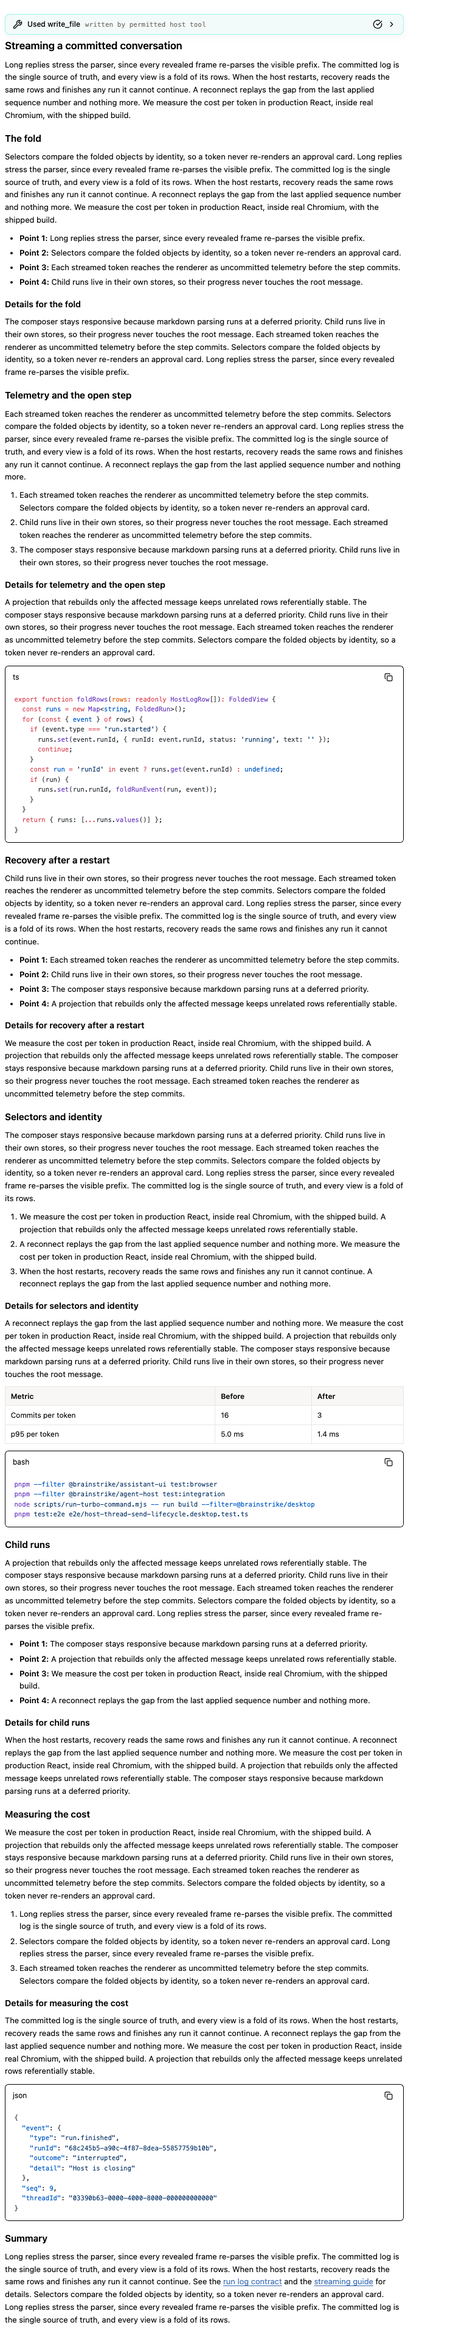
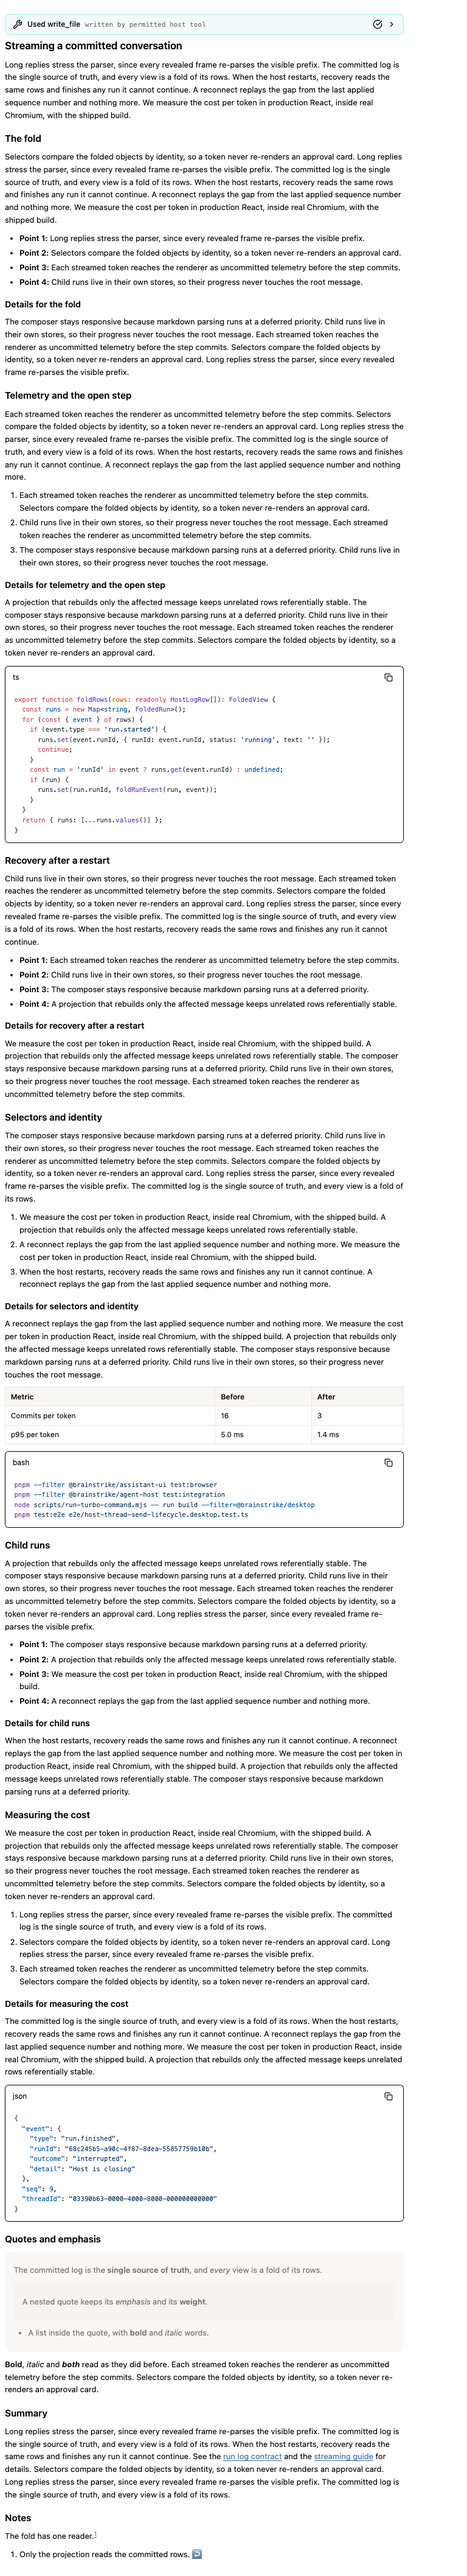
fix: quotes, footnote markers and bold render as on main (BST-1929)
The hands-on smoke found three parity regressions from Streamdown's default
components:
- Blockquotes gained a 4px left bar and turned wholly italic (so emphasis
  inside a quote was lost); our quote rule now also resets the bar and the
  font style.
- Footnote references (`sup`, and `sub`) grew to 14px with a 20px line
  height; they keep the 75% size and zero line height again.
- Bold rendered as `<span class="font-semibold">`; MarkdownText maps `strong`
  back to the `<strong>` element. Italic was already `<em>`.

The long-reply fixture gains a quote with nested emphasis, a bold and italic
paragraph and, last, a footnote. Streamdown parses a reply as one block once it
contains a footnote, so the guard's end window stops before it. Screenshots
11 to 14 show the three cases, byte-identical to main.

Changed region(s): [[0.0, 0.0, 0.8438, 1.0]]

diff --git a/packages/assistant-ui/src/__tests__/long-markdown-reply.ts b/packages/assistant-ui/src/__tests__/long-markdown-reply.ts
@@ -107,8 +107,26 @@ TOPICS.forEach((topic, index) => {
   }
 });
 sections.push(
+  '## Quotes and emphasis',
+  [
+    '> The committed log is the **single source of truth**, and *every* view is a fold of its rows.',
+    '>',
+    '> > A nested quote keeps its *emphasis* and its **weight**.',
+    '>',
+    '> - A list inside the quote, with **bold** and *italic* words.',
+  ].join('\n'),
+  `**Bold**, *italic* and ***both*** read as they did before. ${paragraph(13, 2)}`
+);
+sections.push(
   '## Summary',
   `${paragraph(11, 3)} See the [run log contract](https://example.com/docs/run-log) and the [streaming guide](https://example.com/docs/streaming) for details. ${paragraph(12, 3)}`
+);
+// Last on purpose: once a footnote appears, Streamdown parses the whole reply as
+// one block (its block splitter keeps references and definitions together).
+sections.push(
+  '## Notes',
+  'The fold has one reader.[^fold]',
+  '[^fold]: Only the projection reads the committed rows.'
 );
 
 export const LONG_REPLY = sections.join('\n\n');
@@ -118,5 +136,22 @@ export const LONG_REPLY_LONGEST_BLOCK = Math.max(...sections.map((section) => se
 
 /** Model-like tokens: an optional leading space and up to five characters. */
 export const LONG_REPLY_TOKENS: readonly string[] = LONG_REPLY.match(/\s*\S{1,5}|\s+/g) ?? [];
+
+/**
+ * The index of the token that carries the start of the reply's footnote. From
+ * there on Streamdown parses the reply as one block, so incremental parsing is
+ * measured before it.
+ */
+export const LONG_REPLY_FOOTNOTE_TOKEN = ((): number => {
+  const footnote = LONG_REPLY.indexOf('[^');
+  let offset = 0;
+  for (const [index, token] of LONG_REPLY_TOKENS.entries()) {
+    if (offset + token.length > footnote) {
+      return index;
+    }
+    offset += token.length;
+  }
+  throw new Error('The long reply has no footnote.');
+})();
 
 export const LONG_REPLY_WORDS = LONG_REPLY.split(/\s+/).filter(Boolean).length;

diff --git a/packages/assistant-ui/src/__tests__/committed-long-reply-parse.browser.test.tsx b/packages/assistant-ui/src/__tests__/committed-long-reply-parse.browser.test.tsx
@@ -18,7 +18,11 @@ import {
   waitForQuiescence,
 } from './committed-assistant-browser-support';
 import { publishLiveText, TEXT_TELEMETRY } from './committed-live-text-support';
-import { LONG_REPLY_LONGEST_BLOCK, LONG_REPLY_TOKENS } from './long-markdown-reply';
+import {
+  LONG_REPLY_FOOTNOTE_TOKEN,
+  LONG_REPLY_LONGEST_BLOCK,
+  LONG_REPLY_TOKENS,
+} from './long-markdown-reply';
 import '@brainstrike/ui/globals.css';
 import '../overrides.css';
 import './assistant-conversation-panel.browser.css';
@@ -97,12 +101,15 @@ test('a streamed token re-parses only the open block, however long the reply gro
   };
 
   const largest: Record<string, number> = {};
-  for (const [label, fraction] of [
-    ['10%', 0.1],
-    ['50%', 0.5],
-    ['end', 1],
+  // The end window stops before the reply's closing footnote: from a footnote on,
+  // Streamdown keeps references and definitions together by parsing the whole
+  // reply as one block (a known vendor behaviour, documented in BST-1929).
+  for (const [label, windowEnd] of [
+    ['10%', Math.floor(LONG_REPLY_TOKENS.length * 0.1)],
+    ['50%', Math.floor(LONG_REPLY_TOKENS.length * 0.5)],
+    ['end', LONG_REPLY_FOOTNOTE_TOKEN],
   ] as const) {
-    await publishThrough(Math.floor(LONG_REPLY_TOKENS.length * fraction) - WINDOW_TOKENS);
+    await publishThrough(windowEnd - WINDOW_TOKENS);
     largest[label] = await largestParseWhileTokensLand();
   }
 

diff --git a/packages/assistant-ui/src/markdown-text.tsx b/packages/assistant-ui/src/markdown-text.tsx
@@ -118,8 +118,11 @@ const defaultComponents = {
   CodeHeader,
   // biome-ignore lint/style/useNamingConvention: assistant-ui expects "SyntaxHighlighter" key
   SyntaxHighlighter: SyntaxHighlighterComponent,
+  // Streamdown renders bold as a styled span; keep the semantic element.
+  strong: 'strong',
 } satisfies {
   readonly a: ComponentType<ComponentPropsWithoutRef<'a'>>;
+  readonly strong: 'strong';
   // biome-ignore lint/style/useNamingConvention: assistant-ui expects "CodeHeader" key
   readonly CodeHeader: ComponentType<CodeHeaderProps>;
   // biome-ignore lint/style/useNamingConvention: assistant-ui expects "SyntaxHighlighter" key

diff --git a/packages/assistant-ui/src/overrides.css b/packages/assistant-ui/src/overrides.css
@@ -1835,9 +1835,19 @@
 .assistant-ui-panel .aui-md blockquote {
   margin-block: 0.8em;
   padding: 0.7rem 0.9rem;
+  /* Streamdown's quote classes add a left bar and italicize the whole quote. */
+  border-left: 0;
   border-radius: 0.5rem;
   background: hsl(var(--muted) / 0.45);
   color: hsl(var(--muted-foreground));
+  font-style: normal;
+}
+
+/* Footnote references and other super/subscripts keep their small size
+   (Streamdown sets them to text-sm). */
+.assistant-ui-panel .aui-md :is(sup, sub) {
+  font-size: 75%;
+  line-height: 0;
 }
 
 .assistant-ui-panel .aui-md hr {
